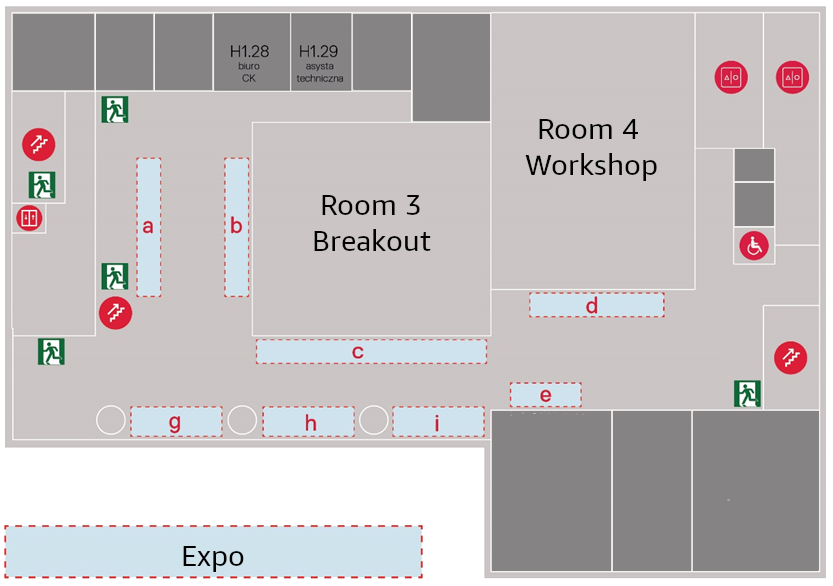
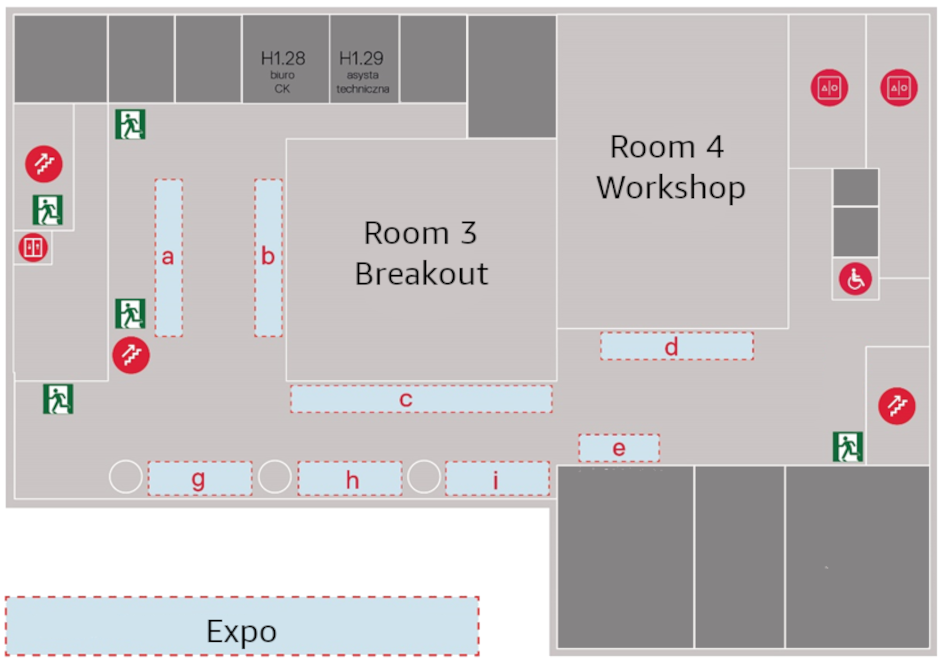
venue page

diff --git a/content/rooms/_index.md b/content/rooms/_index.md
@@ -1,5 +1,5 @@
 ---
-title: "Rooms"
+title: "Venue"
 menu:
     main:
         weight: 300
@@ -22,5 +22,6 @@ Just show a list of rooms (as temporary solution)
 
 -->
 
-{{< figure src="img/ppnt-p0.png" alt="Ground Floor Map" title="Ground Floor" >}}
-{{< figure src="img/ppnt-p1.png" alt="Ground Floor Map" title="First Floor" >}}
+{{< figure src="img/building-3.png" alt="Ground Floor Map" title="PPNT Map" >}}
+{{< figure src="img/ppnt-p0.png" alt="Ground Floor Map" title="Building III Ground Floor" >}}
+{{< figure src="img/ppnt-p1.png" alt="Ground Floor Map" title="Building III First Floor" >}}
